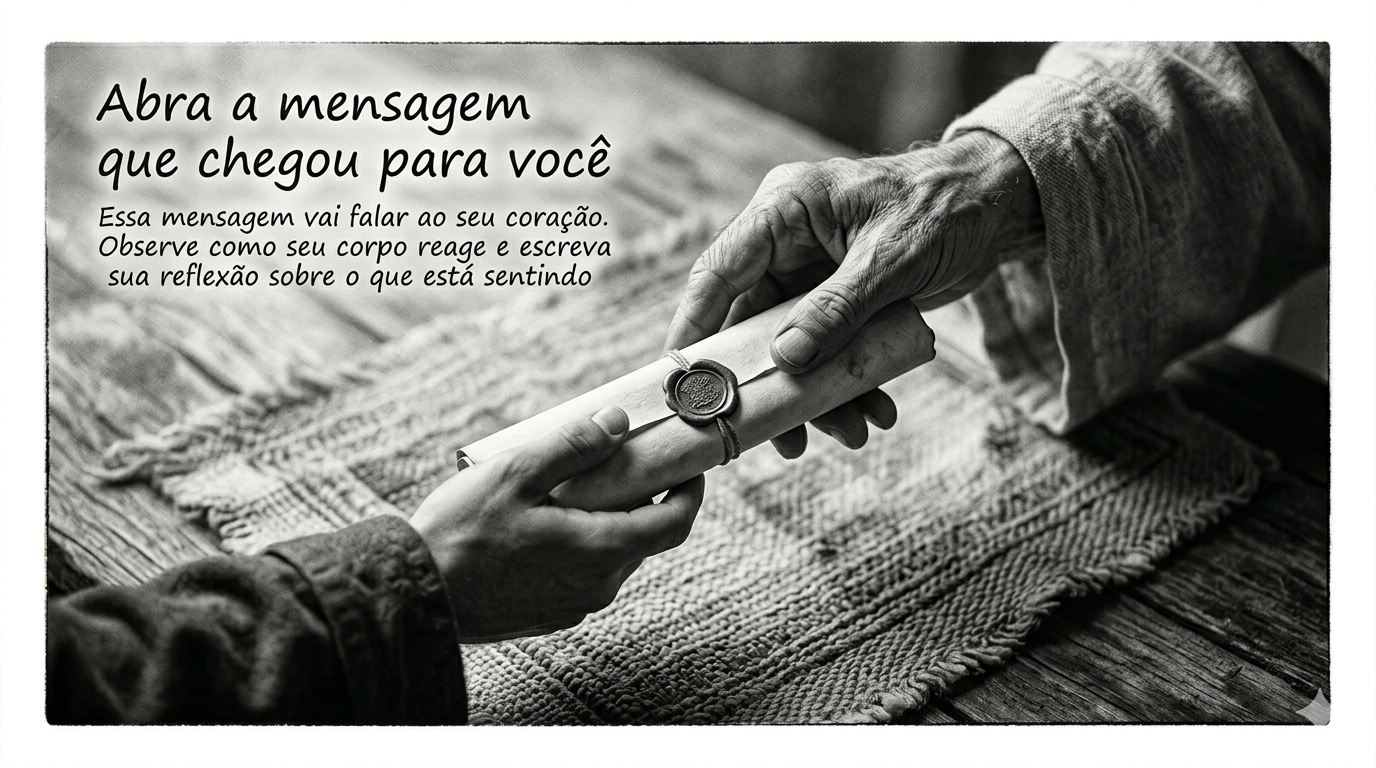
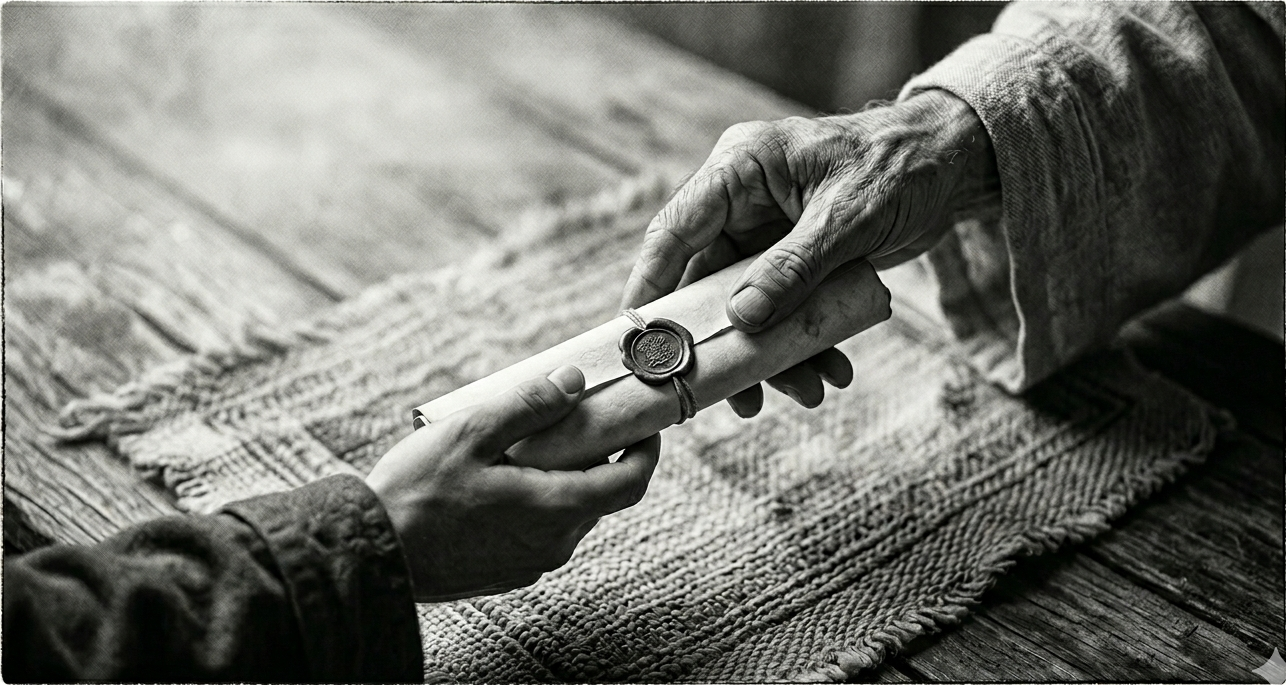
Ajustes

diff --git a/public/css/app.css b/public/css/app.css
@@ -652,6 +652,31 @@ body.app-body {
 	align-content: stretch;
 }
 
+.messenger-hero-content {
+	max-width: min(700px, 78%);
+	align-self: start;
+}
+
+.messenger-hero-image-title {
+	margin: 0 0 10px;
+	color: #f8fbff;
+	font-size: clamp(1.34rem, 2.8vw, 2.08rem);
+	line-height: 1.22;
+	font-weight: 700;
+	text-shadow:
+		0 0 8px rgba(255, 255, 255, .42),
+		0 2px 12px rgba(0, 0, 0, .32);
+}
+
+.messenger-hero-image-copy {
+	margin: 0;
+	color: #ecf3ff;
+	font-size: clamp(.88rem, 1.6vw, 1rem);
+	line-height: 1.62;
+	max-width: 62ch;
+	text-shadow: 0 1px 10px rgba(0, 0, 0, .28);
+}
+
 .messenger-hero {
 	position: relative;
 	overflow: hidden;
@@ -1023,6 +1048,20 @@ body.app-body {
 
 	.messenger-hero-overlay {
 		padding: 14px;
+	}
+
+	.messenger-hero-content {
+		max-width: 100%;
+	}
+
+	.messenger-hero-image-title {
+		font-size: 1.06rem;
+		line-height: 1.35;
+	}
+
+	.messenger-hero-image-copy {
+		font-size: .82rem;
+		line-height: 1.5;
 	}
 
 	.messenger-hero-select {

diff --git a/app/views/patient/messenger.php b/app/views/patient/messenger.php
@@ -4,6 +4,10 @@
 
   <section class="messenger-hero-image mb-4" style="background-image: url('<?php echo $appUrl; ?>/app/images/mensageiro.png');">
     <div class="messenger-hero-overlay">
+      <div class="messenger-hero-content">
+        <h3 class="messenger-hero-image-title">Abra a mensagem que chegou para você.</h3>
+        <p class="messenger-hero-image-copy">Essa mensagem vai falar ao seu coração. Observe como seu corpo reage e escreva sua reflexão sobre o que está sentindo.</p>
+      </div>
       <button id="drawMessageBtn" class="btn btn-dark messenger-draw-btn" type="button" <?php echo ((int) ($totalMessages ?? 0) <= 0) ? 'disabled' : ''; ?>>
         <i class="fa-solid fa-box-open me-1"></i>Abrir mensagem
       </button>
